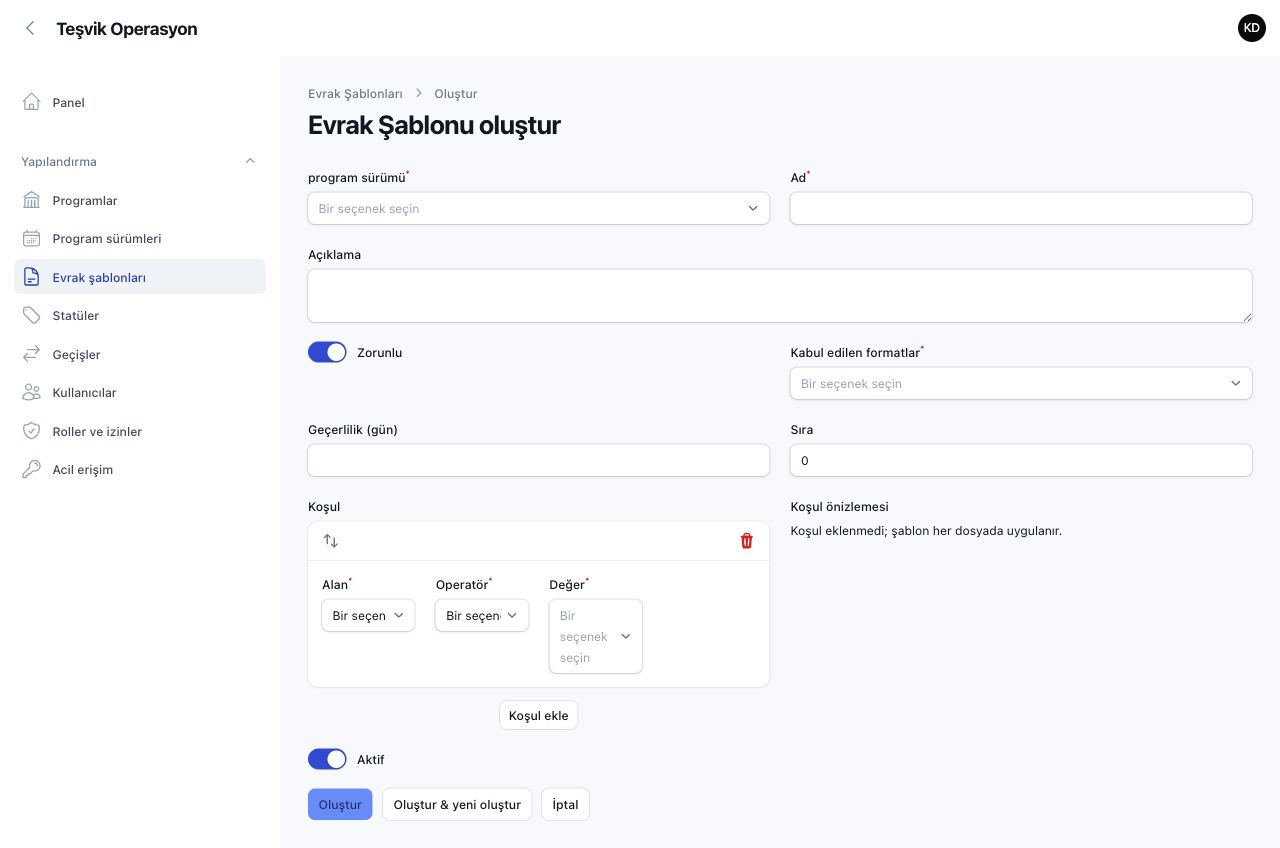
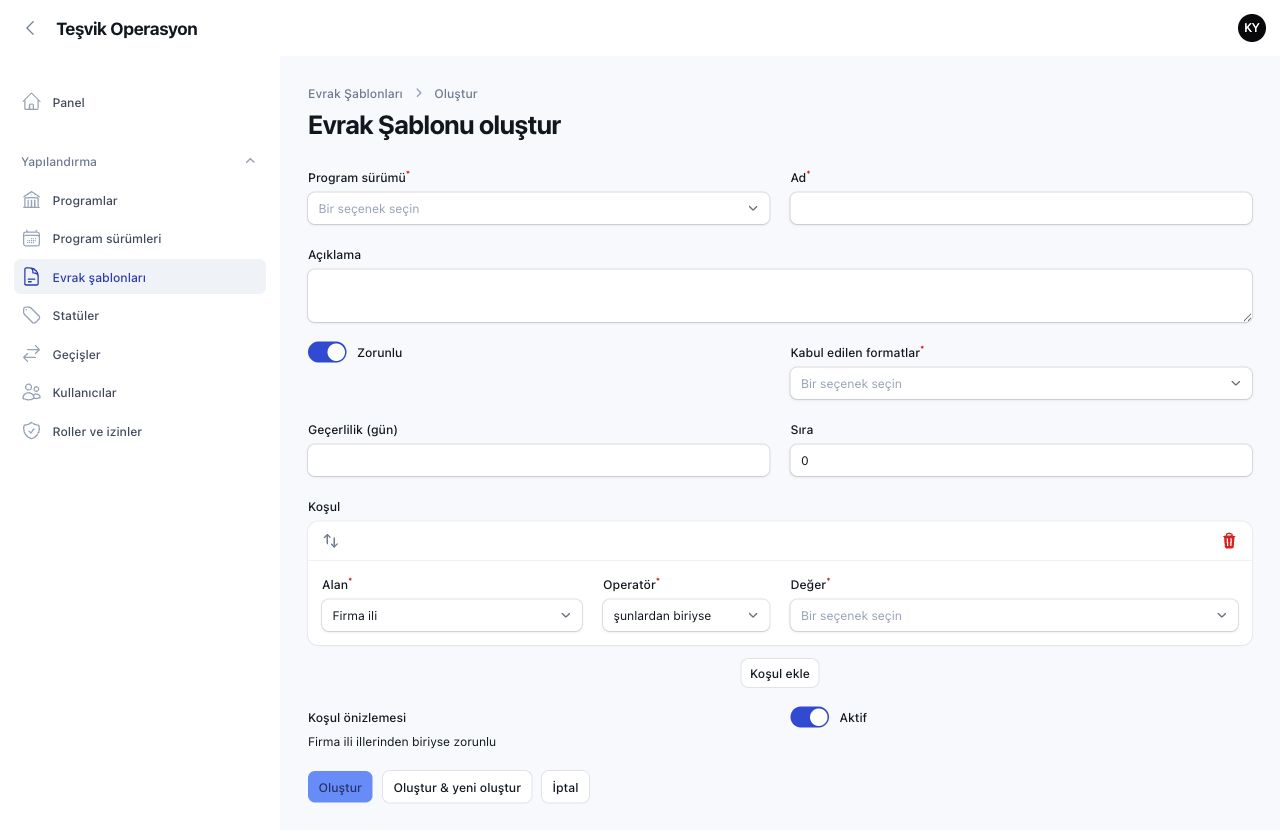
fix(ui): yönetim etiketlerini düzenle

diff --git a/app/Filament/Forms/ConditionEditor.php b/app/Filament/Forms/ConditionEditor.php
@@ -23,9 +23,11 @@ final class ConditionEditor
         return [
             Repeater::make('condition_rules')
                 ->label(__('management.fields.condition'))
+                ->columnSpanFull()
                 ->schema([
                     Select::make('field')
                         ->label(__('management.fields.condition_field'))
+                        ->columnSpan(3)
                         ->options(ConditionDefinition::fieldOptions())
                         ->required()
                         ->live()
@@ -36,11 +38,13 @@ final class ConditionEditor
                         }),
                     Select::make('op')
                         ->label(__('management.fields.condition_operator'))
+                        ->columnSpan(2)
                         ->options(static fn (Get $get): array => ConditionDefinition::operatorOptions($get('field')))
                         ->required()
                         ->live(),
                     Select::make('list_value')
                         ->label(__('management.fields.condition_value'))
+                        ->columnSpan(5)
                         ->options(static fn (Get $get): array => match ($get('field')) {
                             'company.city' => __('management.conditions.values.cities'),
                             'deal.required_documents.status' => __('management.conditions.values.document_statuses'),
@@ -52,12 +56,13 @@ final class ConditionEditor
                         ->visible(static fn (Get $get): bool => $get('field') !== 'deal.requested_amount'),
                     TextInput::make('numeric_value')
                         ->label(__('management.fields.condition_value'))
+                        ->columnSpan(5)
                         ->numeric()
                         ->minValue(0)
                         ->required(static fn (Get $get): bool => $get('field') === 'deal.requested_amount')
                         ->visible(static fn (Get $get): bool => $get('field') === 'deal.requested_amount'),
                 ])
-                ->columns(4)
+                ->columns(10)
                 ->addActionLabel(__('management.conditions.add_rule'))
                 ->defaultItems(0)
                 ->live()

diff --git a/lang/tr/management.php b/lang/tr/management.php
@@ -14,14 +14,14 @@ return [
         'break_glass' => 'Acil erişim',
     ],
     'models' => [
-        'program' => ['singular' => 'program', 'plural' => 'programlar'],
-        'program_version' => ['singular' => 'program sürümü', 'plural' => 'program sürümleri'],
-        'document_template' => ['singular' => 'evrak şablonu', 'plural' => 'evrak şablonları'],
-        'status' => ['singular' => 'statü', 'plural' => 'statüler'],
-        'transition' => ['singular' => 'geçiş', 'plural' => 'geçişler'],
-        'user' => ['singular' => 'kullanıcı', 'plural' => 'kullanıcılar'],
-        'role' => ['singular' => 'rol', 'plural' => 'roller'],
-        'break_glass' => ['singular' => 'acil erişim', 'plural' => 'acil erişimler'],
+        'program' => ['singular' => 'Program', 'plural' => 'Programlar'],
+        'program_version' => ['singular' => 'Program sürümü', 'plural' => 'Program sürümleri'],
+        'document_template' => ['singular' => 'Evrak şablonu', 'plural' => 'Evrak şablonları'],
+        'status' => ['singular' => 'Statü', 'plural' => 'Statüler'],
+        'transition' => ['singular' => 'Geçiş', 'plural' => 'Geçişler'],
+        'user' => ['singular' => 'Kullanıcı', 'plural' => 'Kullanıcılar'],
+        'role' => ['singular' => 'Rol', 'plural' => 'Roller'],
+        'break_glass' => ['singular' => 'Acil erişim', 'plural' => 'Acil erişimler'],
     ],
     'fields' => [
         'name' => 'Ad',
@@ -135,6 +135,8 @@ return [
         ],
     ],
     'actions' => [
+        'create' => 'Oluştur',
+        'edit' => 'Düzenle',
         'copy_previous' => 'Önceki sürümden kopyala',
         'copy_previous_help' => 'Yeni sürümü ve seçilen sürümün evrak şablonlarını ayrı kayıtlar olarak oluşturur.',
         'deactivate' => 'Pasifleştir',

diff --git a/tests/Feature/Filament/ManagementScreensTest.php b/tests/Feature/Filament/ManagementScreensTest.php
@@ -65,6 +65,20 @@ it('koşul önizlemesini yöneticiye Türkçe cümle olarak verir', function ():
     ]]]))->toBe('Firma ili 01, 02, 31 illerinden biriyse zorunlu');
 });
 
+it('yönetim kaynaklarının model etiketlerini açık ve tutarlı tanımlar', function (string $resource, string $singular, string $plural): void {
+    expect((string) $resource::getModelLabel())->toBe($singular)
+        ->and((string) $resource::getPluralModelLabel())->toBe($plural);
+})->with([
+    'program' => [ProgramResource::class, 'Program', 'Programlar'],
+    'program sürümü' => [ProgramVersionResource::class, 'Program sürümü', 'Program sürümleri'],
+    'evrak şablonu' => [DocTemplateResource::class, 'Evrak şablonu', 'Evrak şablonları'],
+    'statü' => [StatusResource::class, 'Statü', 'Statüler'],
+    'geçiş' => [TransitionResource::class, 'Geçiş', 'Geçişler'],
+    'kullanıcı' => [UserResource::class, 'Kullanıcı', 'Kullanıcılar'],
+    'rol' => [RoleResource::class, 'Rol', 'Roller'],
+    'acil erişim' => [BreakGlassGrantResource::class, 'Acil erişim', 'Acil erişimler'],
+]);
+
 it('bilinmeyen operatörlü koşulu evrak şablonu ekranında kaydetmez', function (): void {
     $admin = wp15User('Sistem Yöneticisi', 'kosul-operator-admin');
     $version = ProgramVersion::query()->firstOrFail();

diff --git a/app/Filament/Resources/Roles/RoleResource.php b/app/Filament/Resources/Roles/RoleResource.php
@@ -77,7 +77,7 @@ final class RoleResource extends ScopedResource
             TextColumn::make('default_scope')->label(__('management.fields.default_scope'))->formatStateUsing(fn (string $state): string => __('management.scopes.'.$state)),
             TextColumn::make('permissions_count')->counts('permissions')->label(__('management.fields.permissions'))->alignEnd()->extraAttributes(['class' => 'numeric-data']),
             IconColumn::make('is_active')->label(__('management.fields.active'))->boolean(),
-        ])->recordActions([EditAction::make()])->defaultPaginationPageOption(25)->paginationPageOptions([25, 50, 100]);
+        ])->recordActions([EditAction::make()->label(__('management.actions.edit'))])->defaultPaginationPageOption(25)->paginationPageOptions([25, 50, 100]);
     }
 
     public static function getPages(): array

diff --git a/app/Filament/Resources/Users/UserResource.php b/app/Filament/Resources/Users/UserResource.php
@@ -79,7 +79,7 @@ final class UserResource extends ScopedResource
             TextColumn::make('teams.name')->label(__('management.fields.teams'))->badge(),
             TextColumn::make('data_scope')->label(__('management.fields.data_scope'))->formatStateUsing(fn (?string $state): string => $state === null ? __('management.messages.not_set') : __('management.scopes.'.$state)),
             IconColumn::make('is_active')->label(__('management.fields.active'))->boolean(),
-        ])->recordActions([EditAction::make()])->defaultPaginationPageOption(25)->paginationPageOptions([25, 50, 100]);
+        ])->recordActions([EditAction::make()->label(__('management.actions.edit'))])->defaultPaginationPageOption(25)->paginationPageOptions([25, 50, 100]);
     }
 
     public static function getPages(): array

diff --git a/app/Filament/Resources/Programs/ProgramResource.php b/app/Filament/Resources/Programs/ProgramResource.php
@@ -68,7 +68,7 @@ final class ProgramResource extends ScopedResource
             TextColumn::make('code')->label(__('management.fields.code'))->extraAttributes(['class' => 'numeric-data']),
             TextColumn::make('versions_count')->counts('versions')->label(__('management.models.program_version.plural'))->alignEnd()->extraAttributes(['class' => 'numeric-data']),
             IconColumn::make('is_active')->label(__('management.fields.active'))->boolean(),
-        ])->recordActions([EditAction::make()])->defaultPaginationPageOption(25)->paginationPageOptions([25, 50, 100]);
+        ])->recordActions([EditAction::make()->label(__('management.actions.edit'))])->defaultPaginationPageOption(25)->paginationPageOptions([25, 50, 100]);
     }
 
     public static function getPages(): array

diff --git a/app/Filament/Resources/DocTemplates/DocTemplateResource.php b/app/Filament/Resources/DocTemplates/DocTemplateResource.php
@@ -80,7 +80,7 @@ final class DocTemplateResource extends ScopedResource
                 ->formatStateUsing(fn (mixed $state): string => ConditionDefinition::preview(is_array($state) ? $state : null))->limit(70),
             TextColumn::make('sort_order')->label(__('management.fields.sort_order'))->alignEnd()->extraAttributes(['class' => 'numeric-data']),
             IconColumn::make('is_active')->label(__('management.fields.active'))->boolean(),
-        ])->recordActions([EditAction::make()])->defaultPaginationPageOption(25)->paginationPageOptions([25, 50, 100]);
+        ])->recordActions([EditAction::make()->label(__('management.actions.edit'))])->defaultPaginationPageOption(25)->paginationPageOptions([25, 50, 100]);
     }
 
     public static function getPages(): array

diff --git a/app/Filament/Resources/ProgramVersions/ProgramVersionResource.php b/app/Filament/Resources/ProgramVersions/ProgramVersionResource.php
@@ -75,7 +75,7 @@ final class ProgramVersionResource extends ScopedResource
                 ->extraAttributes(['class' => 'numeric-data']),
             TextColumn::make('doc_templates_count')->counts('docTemplates')->label(__('management.fields.template_count'))->alignEnd()->extraAttributes(['class' => 'numeric-data']),
             IconColumn::make('is_active')->label(__('management.fields.active'))->boolean(),
-        ])->recordActions([EditAction::make()])->defaultPaginationPageOption(25)->paginationPageOptions([25, 50, 100]);
+        ])->recordActions([EditAction::make()->label(__('management.actions.edit'))])->defaultPaginationPageOption(25)->paginationPageOptions([25, 50, 100]);
     }
 
     public static function getPages(): array

diff --git a/app/Filament/Resources/Transitions/TransitionResource.php b/app/Filament/Resources/Transitions/TransitionResource.php
@@ -87,7 +87,7 @@ final class TransitionResource extends ScopedResource
                 ->formatStateUsing(fn (mixed $state): string => ConditionDefinition::preview(is_array($state) ? $state : null))->limit(70),
             IconColumn::make('is_active')->label(__('management.fields.active'))->boolean(),
         ])->recordActions([
-            EditAction::make(),
+            EditAction::make()->label(__('management.actions.edit')),
             Action::make('deactivate')->label(__('management.actions.deactivate'))->icon('heroicon-o-no-symbol')
                 ->visible(fn (Transition $record): bool => $record->is_active)
                 ->modalDescription(fn (Transition $record): string => app(OrphanImpactPresenter::class)->describe(

diff --git a/app/Filament/Resources/Statuses/StatusResource.php b/app/Filament/Resources/Statuses/StatusResource.php
@@ -85,7 +85,7 @@ final class StatusResource extends ScopedResource
             IconColumn::make('is_terminal')->label(__('management.fields.terminal'))->boolean(),
             IconColumn::make('is_active')->label(__('management.fields.active'))->boolean(),
         ])->recordActions([
-            EditAction::make(),
+            EditAction::make()->label(__('management.actions.edit')),
             Action::make('deactivate')->label(__('management.actions.deactivate'))->icon('heroicon-o-no-symbol')
                 ->visible(fn (Status $record): bool => $record->is_active)
                 ->modalDescription(fn (Status $record): string => app(OrphanImpactPresenter::class)->describe(

diff --git a/app/Filament/Resources/ProgramVersions/Pages/ListProgramVersions.php b/app/Filament/Resources/ProgramVersions/Pages/ListProgramVersions.php
@@ -23,7 +23,7 @@ final class ListProgramVersions extends ListRecords
     protected function getHeaderActions(): array
     {
         return [
-            CreateAction::make(),
+            CreateAction::make()->label(__('management.actions.create')),
             Action::make('copy_previous')
                 ->label(__('management.actions.copy_previous'))
                 ->icon('heroicon-o-document-duplicate')

diff --git a/app/Filament/Resources/DocTemplates/Pages/ListDocTemplates.php b/app/Filament/Resources/DocTemplates/Pages/ListDocTemplates.php
@@ -14,6 +14,6 @@ final class ListDocTemplates extends ListRecords
 
     protected function getHeaderActions(): array
     {
-        return [CreateAction::make()];
+        return [CreateAction::make()->label(__('management.actions.create'))];
     }
 }
